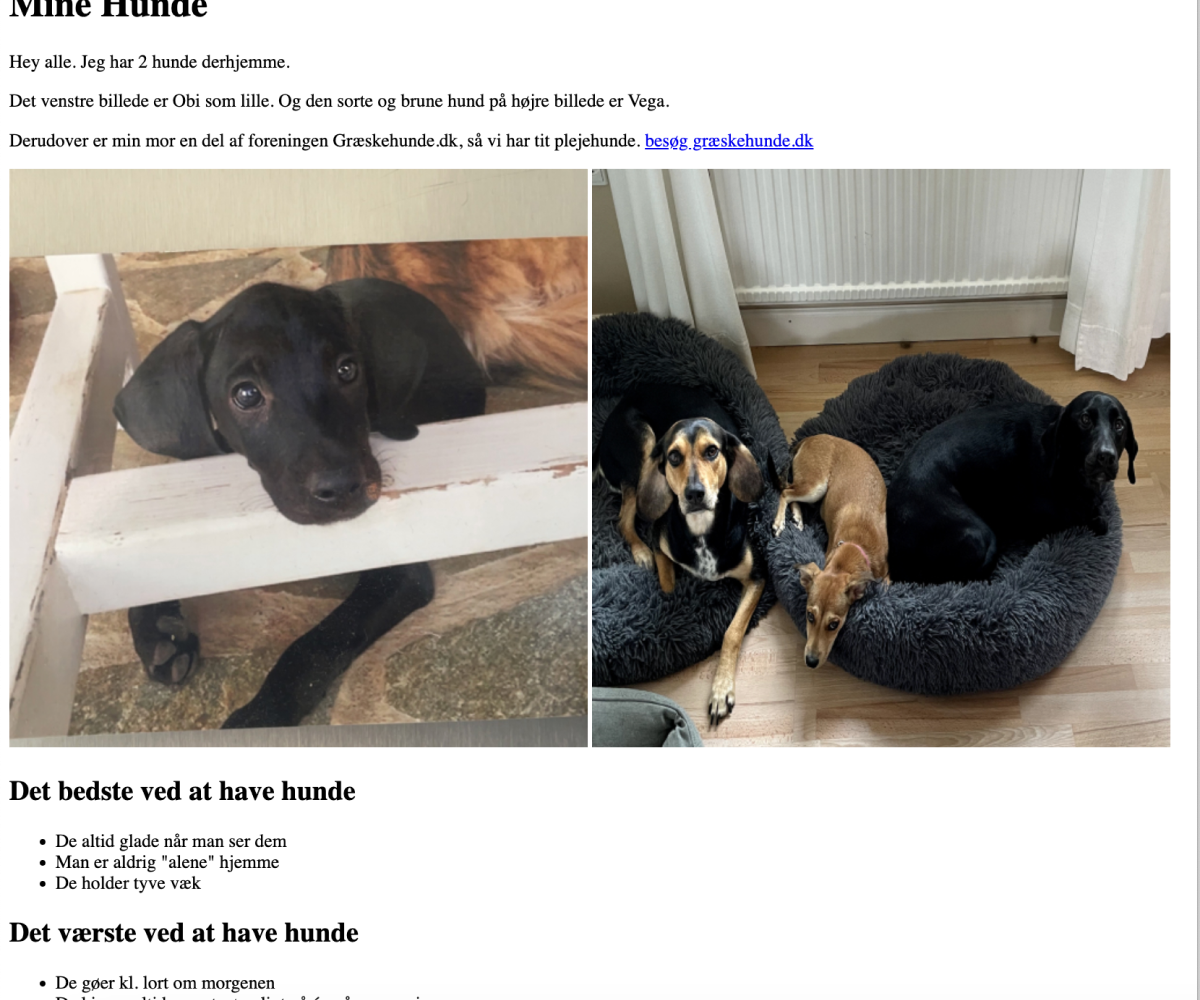
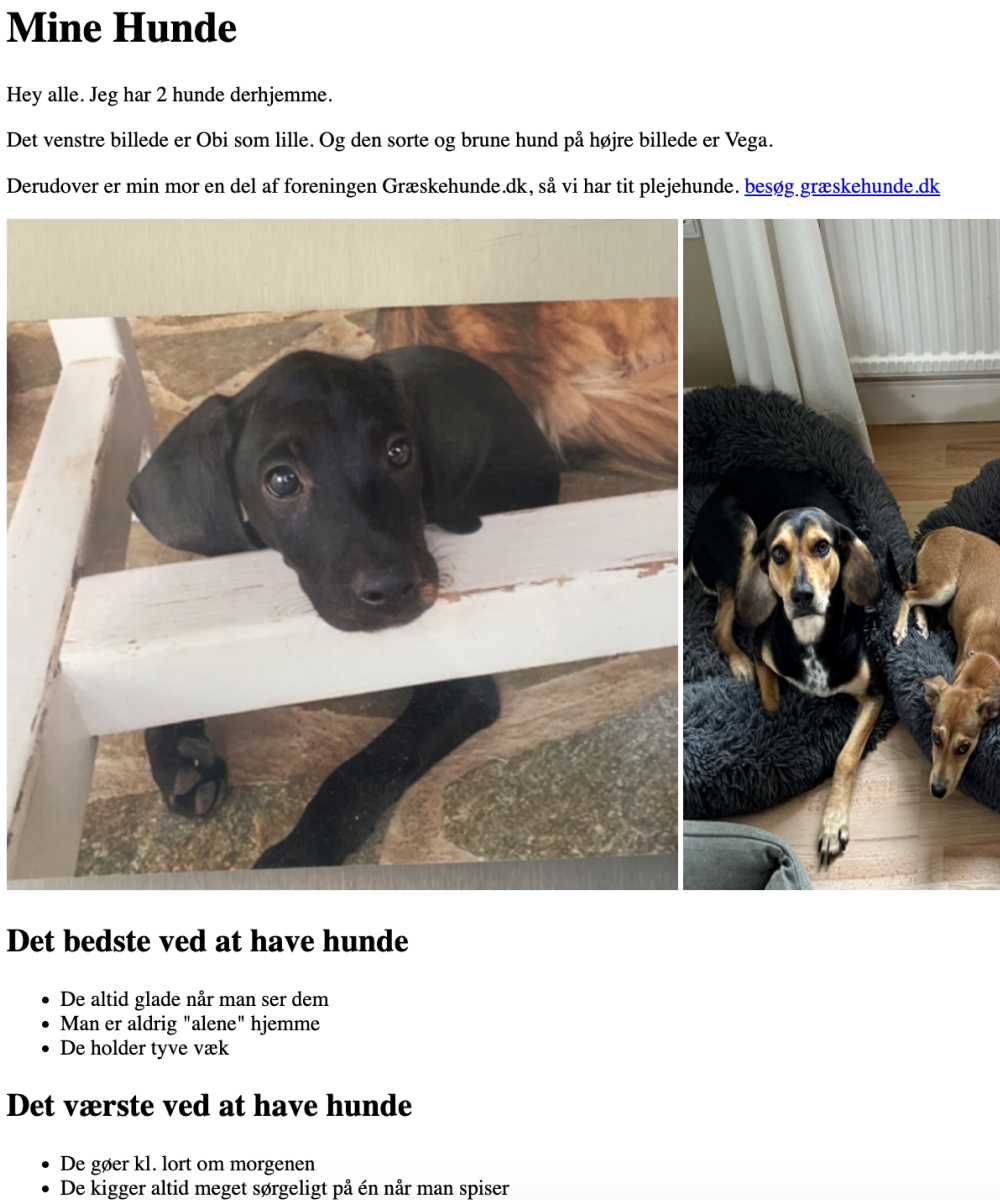
ændringer

diff --git a/02_web.html b/02_web.html
@@ -51,9 +51,53 @@
     </header>
 
     <main>
+        <div class="main_container">
+            <h1>Tema 01_introuge</h1>
+            <hr>
+            <div class="tema_01">
+                <div class="text_container">
+                    <h4>Temabeskrivelse</h4>
+                    <p>Tema 1 var vores introforløb, som havde til formål at give os et overblik i hvad det vil sige at
+                        være multimediedesigner
+                        og lidt om hvad uddannelsen gik ud på. Vi mødte blandt andet tidligere studerende der fortalte
+                        om praktik,
+                        karrieremuligheder og lidt om virksomheder som kunne være interesseret i at have
+                        multimediedesignere arbejdende for sig.
+                        Vi blev også kastet lidt ind hvordan man arbejder, som start på vores første semester. Vi købte
+                        vores første domæne (mit
+                        hedder Iceziegler.dk) Og så blev vi inroduceret for VS Code, figma, mappestruktur, filezilla. Og
+                        så sluttede vi ugen af
+                        med at lave en kortfilm i små grupper.</p>
+                </div>
+                <div class="text_container">
+                    <h4>Hvad har jeg lært</h4>
+                    <ul>
+                        <li>Information om hvad det vil sige at være multimediedesigner
+                        </li>
+                        <li>At købe og oprette et domæne</li>
+                        <li>Hvad er VS code og hvordan bruger man det i forhold til sin mappestruktur og det at oploade
+                            hvad
+                            man har lavet til sit
+                            domæne via. Filezilla</li>
+                        <li>Basics i figma, som jeg brugte til at lave præsentationskort</li>
+                        <li>At lave en kortfilm ud fra filmiskevirkemidler</li>
+                    </ul>
+                </div>
+                <div class="text_container">
+                    <h4>Opgaver</h4>
+                    <ul>
+                        <li>02.01.01 Mobilsite
+                        </li>
+                        <li>02.01.02 Studiestartsprøven</li>
 
-        <h1>Tema 02_Web</h1>
+                    </ul>
+                </div>
+            </div>
+        </div>
 
+
+        <h1>Gennemgang af temaet</h1>
+        <hr>
         <div class="grid_02_1">
             <div>
                 <h2>Temabeskrivelse</h2>
@@ -88,38 +132,62 @@
 
             <div class="tekst_02">
                 <h2>Hvad har jeg lært</h2>
-                <ul>
-                    <li></li>
-                    <li></li>
-                    <li></li>
-                    <li></li>
+                <p>Mauris egestas turpis. Vitae pulvinar lobortis vel ut at. Sed facilisis vestibulum, sed bibendum.
+                    Vitae, tristique
+                    suspendisse condimentum pulvinar rutrum dui sed tincidunt ut. Mauris porttitor diam facilisis sit
+                    amet. r diam facilisis
+                    sit amet.
+                    Mauris egestas turpis. Vitae pulvinar lobortis vel ut at. Sed facilisis vestibulum, sed bibendum.
+                    Vitae, tristique
+                    suspendisse condimentum pulvinar rutrum dui sed tincidunt ut.
 
-                </ul>
+                    Mauris porttitor diam facilisis sit amet. Mauris egestas turpis. Vitae pulvinar lobortis vel ut at.
+                    Sed facilisis
+                    vestibulum, sed bibendum. Vitae, tristique suspendisse condimentum pulvinar rutrum dui sed tincidunt
+                    ut. Mauris
+                    porttitor diam facilisis sit amet.
+                    Mauris egestas turpis. Vitae pulvinar lobortis vel ut at. Sed facilisis vestibulum, sed bibendum.
+                    Vitae, tristique
+                    suspendisse condimentum pulvinar rutrum dui sed tincidunt ut. Mauris porttitor diam facilisis sit
+                    amet.</p>
             </div>
             <div class="billeder_3">
-                <img src="indhold/02_web_layoutdiagram.png" alt="Layoutdiagram">
-                <img src="indhold/02_web_wireframes.png" alt="Wireframes">
-                <img src="indhold/01_validering_html.png" alt="Validering html">
+                <img src="indhold/02_web_layoutdiagram.png" alt="Layoutdiagram" class="img_02_layout">
+                <img src="indhold/02_web_wireframes.png" alt="Wireframes" class="img_02_wireframes">
+
+
             </div>
+
         </div>
 
 
 
         <div class="text_section">
             <h2>Opgaver</h2>
-            <ul>
-                <li></li>
-                <li></li>
-                <li></li>
-                <li></li>
+            <p>Mauris egestas turpis. Vitae pulvinar lobortis vel ut at. Sed facilisis vestibulum, sed bibendum.
+                Vitae, tristique
+                suspendisse condimentum pulvinar rutrum dui sed tincidunt ut. Mauris porttitor diam facilisis sit
+                amet. r diam facilisis
+                sit amet.
+                Mauris egestas turpis. Vitae pulvinar lobortis vel ut at. Sed facilisis vestibulum, sed bibendum.
+                Vitae, tristique
+                suspendisse condimentum pulvinar rutrum dui sed tincidunt ut.
 
-            </ul>
+                Mauris porttitor diam facilisis sit amet. Mauris egestas turpis. Vitae pulvinar lobortis vel ut at.
+                Sed facilisis
+                vestibulum, sed bibendum. Vitae, tristique suspendisse condimentum pulvinar rutrum dui sed tincidunt
+                ut. Mauris
+                porttitor diam facilisis sit amet.
+                Mauris egestas turpis. Vitae pulvinar lobortis vel ut at. Sed facilisis vestibulum, sed bibendum.
+                Vitae, tristique
+                suspendisse condimentum pulvinar rutrum dui sed tincidunt ut. Mauris porttitor diam facilisis sit
+                amet.</p>
         </div>
         <div class="grid_02_4">
             <img src="indhold/02_web_grid_css.png" alt="Grid css" class="billede_1">
             <img src="indhold/02_web_eget_indhold.png" alt="Eget indhold" class="billede_2">
             <img src="indhold/02_web_mediaqueries.png" alt="mediaqueries" class="billede_3">
-            <img src="indhold/02_web_studiestartsprøven.png" alt="Studiestartsprøven" class="billede_4">
+            <img src="indhold/02_web_studiestart.png" alt="Studiestartsprøven" class="billede_4">
 
 
         </div>

diff --git a/04_animation.html b/04_animation.html
@@ -51,6 +51,51 @@
     </header>
 
     <main>
+
+        <div class="main_container">
+            <h1>Tema 01_introuge</h1>
+            <hr>
+            <div class="tema_01">
+                <div class="text_container">
+                    <h4>Temabeskrivelse</h4>
+                    <p>Tema 1 var vores introforløb, som havde til formål at give os et overblik i hvad det vil sige at
+                        være multimediedesigner
+                        og lidt om hvad uddannelsen gik ud på. Vi mødte blandt andet tidligere studerende der fortalte
+                        om praktik,
+                        karrieremuligheder og lidt om virksomheder som kunne være interesseret i at have
+                        multimediedesignere arbejdende for sig.
+                        Vi blev også kastet lidt ind hvordan man arbejder, som start på vores første semester. Vi købte
+                        vores første domæne (mit
+                        hedder Iceziegler.dk) Og så blev vi inroduceret for VS Code, figma, mappestruktur, filezilla. Og
+                        så sluttede vi ugen af
+                        med at lave en kortfilm i små grupper.</p>
+                </div>
+                <div class="text_container">
+                    <h4>Hvad har jeg lært</h4>
+                    <ul>
+                        <li>Information om hvad det vil sige at være multimediedesigner
+                        </li>
+                        <li>At købe og oprette et domæne</li>
+                        <li>Hvad er VS code og hvordan bruger man det i forhold til sin mappestruktur og det at oploade
+                            hvad
+                            man har lavet til sit
+                            domæne via. Filezilla</li>
+                        <li>Basics i figma, som jeg brugte til at lave præsentationskort</li>
+                        <li>At lave en kortfilm ud fra filmiskevirkemidler</li>
+                    </ul>
+                </div>
+                <div class="text_container">
+                    <h4>Opgaver</h4>
+                    <ul>
+                        <li>04.01.01 Link til site v1(skelet)
+                        </li>
+                        <li>04.02.01 Aktivitetsdiagram</li>
+                        <li>04.04.01 Temaopgave (endeligt spil på sitet)</li>
+                    </ul>
+                </div>
+            </div>
+        </div>
+
         <h1>Tema 04_Animation</h1>
 
         <div class="grid_04_1">

diff --git a/05_indhold.html b/05_indhold.html
@@ -51,6 +51,50 @@
     </header>
 
     <main>
+
+        <div class="main_container">
+            <h1>Tema 01_introuge</h1>
+            <hr>
+            <div class="tema_01">
+                <div class="text_container">
+                    <h4>Temabeskrivelse</h4>
+                    <p>Tema 1 var vores introforløb, som havde til formål at give os et overblik i hvad det vil sige at
+                        være multimediedesigner
+                        og lidt om hvad uddannelsen gik ud på. Vi mødte blandt andet tidligere studerende der fortalte
+                        om praktik,
+                        karrieremuligheder og lidt om virksomheder som kunne være interesseret i at have
+                        multimediedesignere arbejdende for sig.
+                        Vi blev også kastet lidt ind hvordan man arbejder, som start på vores første semester. Vi købte
+                        vores første domæne (mit
+                        hedder Iceziegler.dk) Og så blev vi inroduceret for VS Code, figma, mappestruktur, filezilla. Og
+                        så sluttede vi ugen af
+                        med at lave en kortfilm i små grupper.</p>
+                </div>
+                <div class="text_container">
+                    <h4>Hvad har jeg lært</h4>
+                    <ul>
+                        <li>Information om hvad det vil sige at være multimediedesigner
+                        </li>
+                        <li>At købe og oprette et domæne</li>
+                        <li>Hvad er VS code og hvordan bruger man det i forhold til sin mappestruktur og det at oploade
+                            hvad
+                            man har lavet til sit
+                            domæne via. Filezilla</li>
+                        <li>Basics i figma, som jeg brugte til at lave præsentationskort</li>
+                        <li>At lave en kortfilm ud fra filmiskevirkemidler</li>
+                    </ul>
+                </div>
+                <div class="text_container">
+                    <h4>Opgaver</h4>
+                    <ul>
+                        <li>05.01.01 Passionssite
+                        </li>
+                        <li>05.02.01 Virksomhedssite</li>
+                    </ul>
+                </div>
+            </div>
+        </div>
+
         <h1>Tema 05_Indholdsproduktion</h1>
         <h2>Passionssite</h2>
 

diff --git a/03_ux.html b/03_ux.html
@@ -51,6 +51,49 @@
     </header>
 
     <main>
+        <div class="main_container">
+            <h1>Tema 01_introuge</h1>
+            <hr>
+            <div class="tema_01">
+                <div class="text_container">
+                    <h4>Temabeskrivelse</h4>
+                    <p>Tema 1 var vores introforløb, som havde til formål at give os et overblik i hvad det vil sige at
+                        være multimediedesigner
+                        og lidt om hvad uddannelsen gik ud på. Vi mødte blandt andet tidligere studerende der fortalte
+                        om praktik,
+                        karrieremuligheder og lidt om virksomheder som kunne være interesseret i at have
+                        multimediedesignere arbejdende for sig.
+                        Vi blev også kastet lidt ind hvordan man arbejder, som start på vores første semester. Vi købte
+                        vores første domæne (mit
+                        hedder Iceziegler.dk) Og så blev vi inroduceret for VS Code, figma, mappestruktur, filezilla. Og
+                        så sluttede vi ugen af
+                        med at lave en kortfilm i små grupper.</p>
+                </div>
+                <div class="text_container">
+                    <h4>Hvad har jeg lært</h4>
+                    <ul>
+                        <li>Information om hvad det vil sige at være multimediedesigner
+                        </li>
+                        <li>At købe og oprette et domæne</li>
+                        <li>Hvad er VS code og hvordan bruger man det i forhold til sin mappestruktur og det at oploade
+                            hvad
+                            man har lavet til sit
+                            domæne via. Filezilla</li>
+                        <li>Basics i figma, som jeg brugte til at lave præsentationskort</li>
+                        <li>At lave en kortfilm ud fra filmiskevirkemidler</li>
+                    </ul>
+                </div>
+                <div class="text_container">
+                    <h4>Opgaver</h4>
+                    <ul>
+                        <li>03.01.01 Emnesite
+                        </li>
+
+                    </ul>
+                </div>
+            </div>
+        </div>
+
         <h1>Tema 03_Grundlæggende UX</h1>
 
         <div class="grid_03_1">

diff --git a/style.css b/style.css
@@ -72,6 +72,11 @@ html {
   background-color: var(--grey);
 }
 
+hr {
+  display: block;
+  margin: auto;
+  width: 80%;
+}
 /********** Index style **********/
 
 .grid_index {
@@ -163,5 +168,45 @@ html {
     grid-template-columns: 1fr 1fr 1fr;
     gap: 10px;
     padding-left: 30px;
+  }
+}
+
+/**** 02_Web ****/
+
+.grid_02_1 {
+  padding: 30px;
+}
+
+.billeder_3 img {
+  display: block;
+  margin: auto;
+  max-width: 400px;
+  margin-bottom: 30px;
+}
+
+.grid_02_2 {
+  display: block;
+  margin: auto;
+  width: 75%;
+}
+
+.text_section {
+  background-color: var(--secondary);
+  color: var(--grey);
+  margin-bottom: 30px;
+}
+@media screen and (min-width: 800px) {
+  .grid_02_2 {
+    display: block;
+    margin: auto;
+    width: 75%;
+  }
+
+  .text_section h2,
+  .text_section p {
+    display: block;
+    margin: auto;
+    max-width: 800px;
+    padding: 10px;
   }
 }

diff --git a/layout.css b/layout.css
@@ -558,6 +558,10 @@ li:hover {
 }
 
 /********** 02_web **********/
+.grid_02_4 img {
+  object-fit: cover;
+  align-items: stretch;
+}
 
 @media screen and (min-width: 800px) {
   .grid_02_1 {
@@ -583,21 +587,15 @@ li:hover {
   }
 
   .tekst_02 {
-    grid-column: 2;
-    grid-row: 1;
+    grid-column: 2/3;
+    grid-row: span 2;
+    padding-right: 30px;
+    padding-top: 35px;
   }
-
-  .billeder_3 {
-    grid-column: 1;
-    grid-row: 1;
-  }
-
   .grid_02_4 {
     display: grid;
     grid-template-columns: 1fr 1fr 1fr 1fr;
     gap: 30px;
-    object-fit: cover;
-    align-items: stretch;
   }
 
   .billede_1 {
